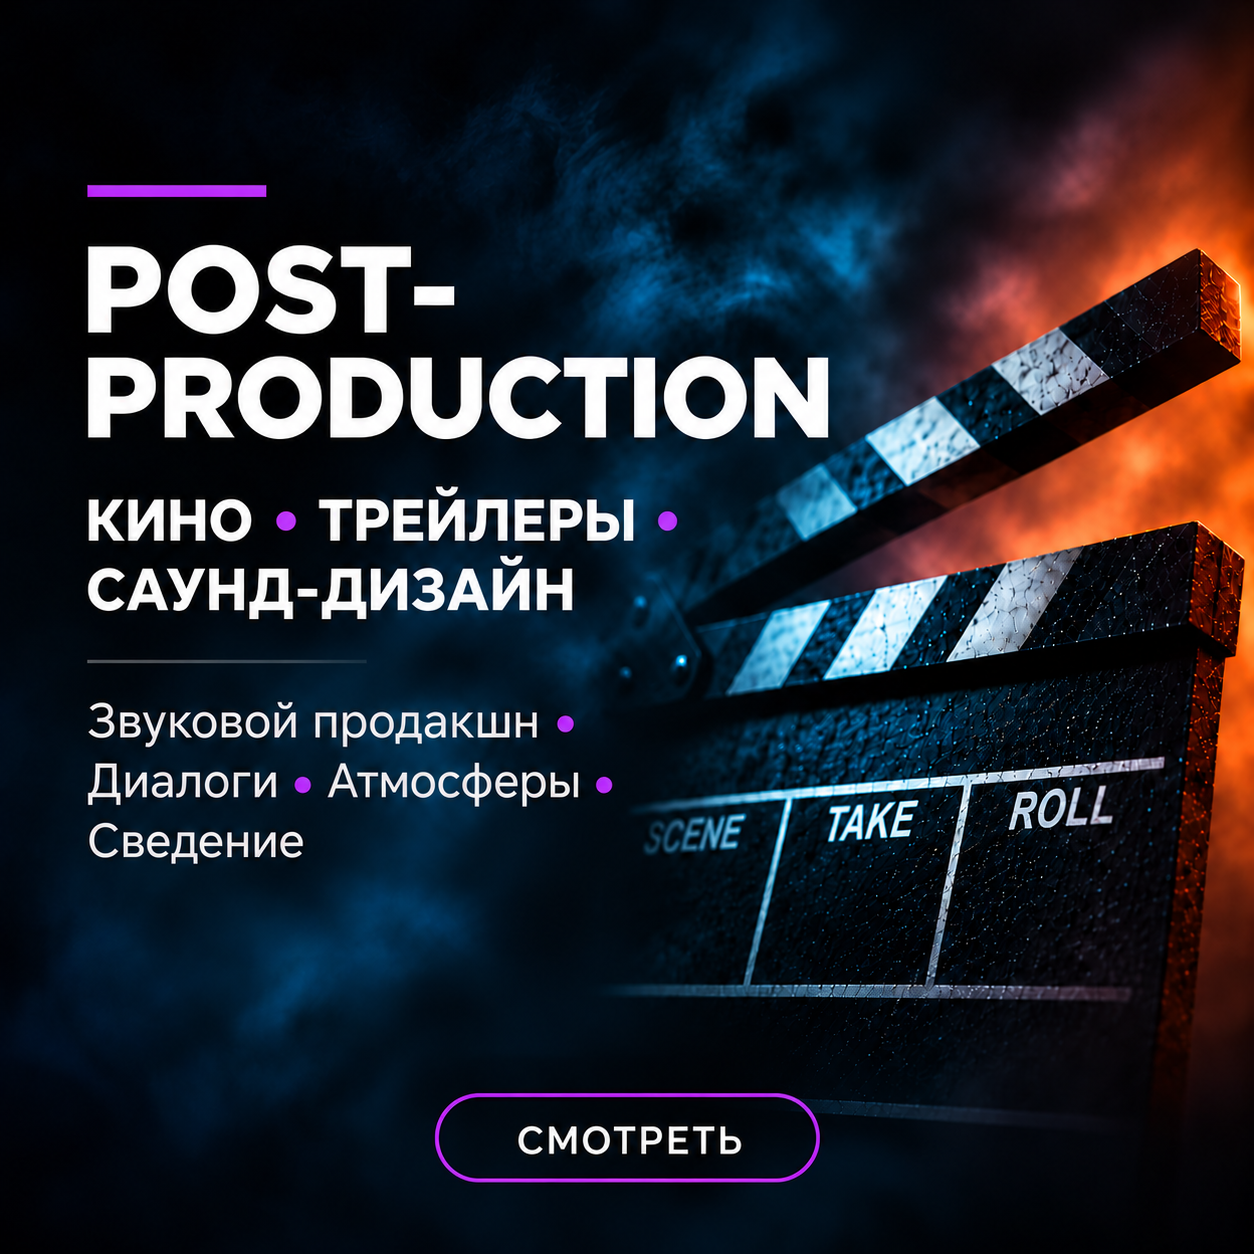
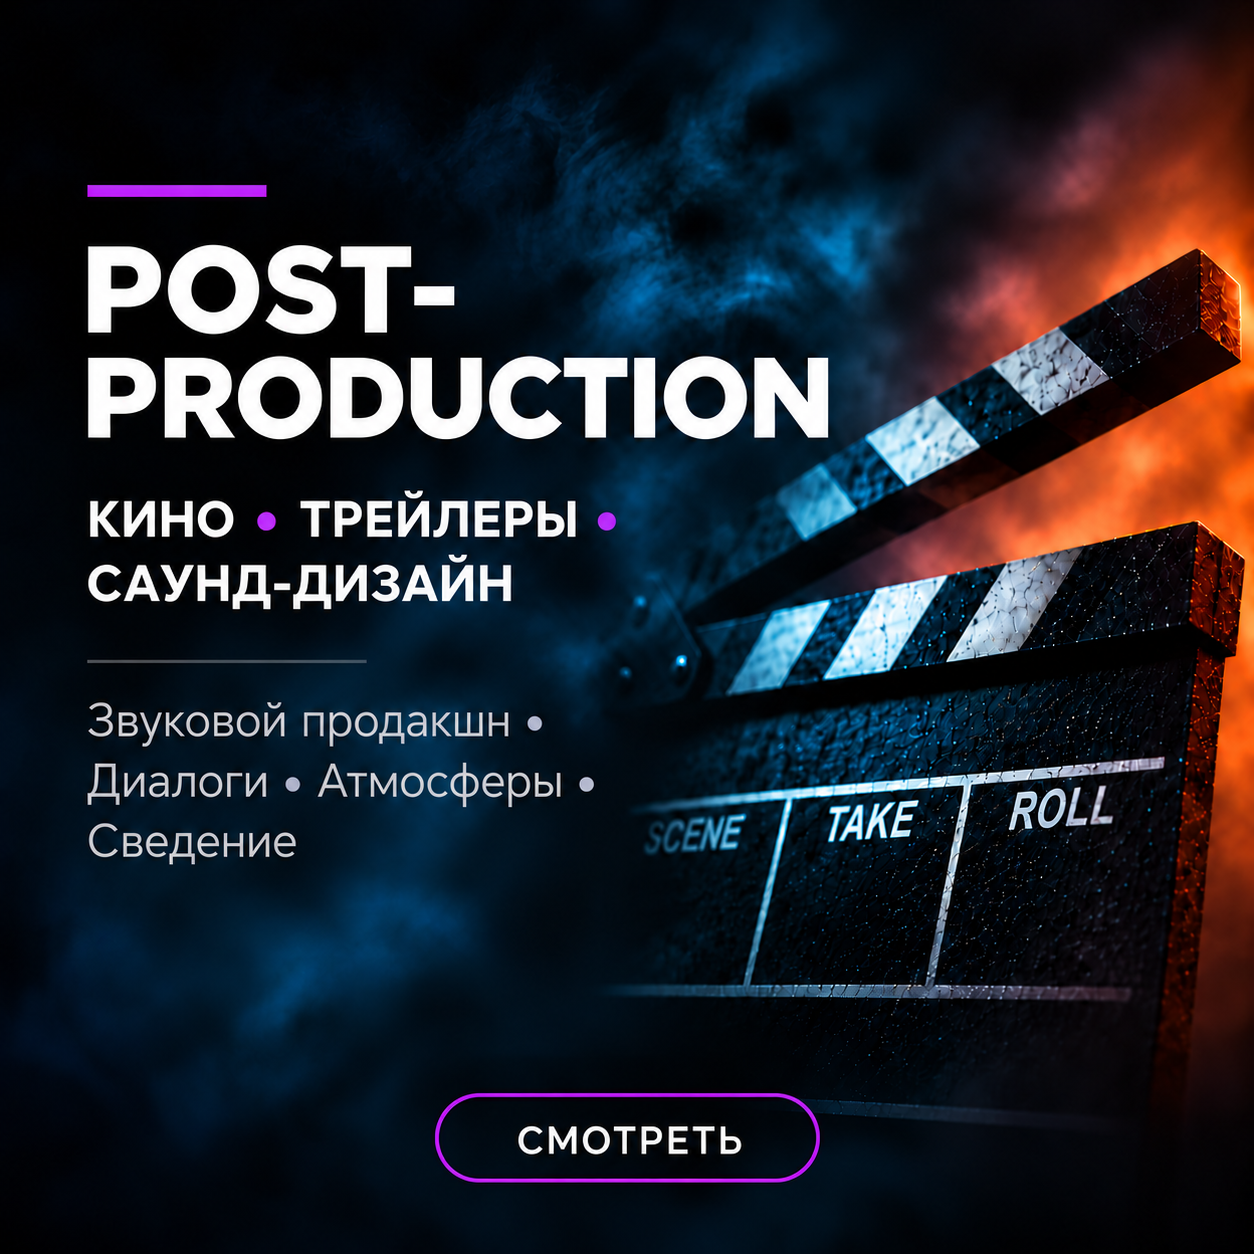
Lighten homepage cover typography

diff --git a/index.html b/index.html
@@ -11,7 +11,7 @@
 <body id="top"><main>
 <div class="desktop-navigation"><div class="brand"><span>ЗВУКОРЕЖИССЁР</span><h1>ДМИТРИЙ ЛЕПИЛКИН</h1></div><div class="header-specialties" role="group" aria-label="Направления работы"><span>ПОСТПРОДАКШЕН</span><span>СВЕДЕНИЕ</span><span>МАСТЕРИНГ</span></div></div>
 
-<div class="home-content"><section id="works" aria-label="Направления работ"><div class="desktop-work-heading"><a class="cta" href="#desktop-cards">МОИ РАБОТЫ <span aria-hidden="true">↓</span></a></div><div class="desktop-cards" id="desktop-cards"><a class="desktop-card" href="post-production.html" aria-label="Post-Production: Кино, Трейлеры, Саунд-дизайн"><picture><img src="post-production-cover.png?v=20261102-type3" alt="Post-Production. Кино · Трейлеры · Саунд-дизайн. Звуковой продакшн · Диалоги · Атмосферы · Сведение. Смотреть" width="1254" height="1254" fetchpriority="high"></picture></a><a class="desktop-card" href="music-player-test.html" aria-label="Music Mixing: музыкальные работы"><picture><img src="music-mixing-cover.png?v=20261102-type3" alt="Music Mixing. Поп · Поп-рок · Рок · Металл. Редакция · Вокальный продакшн · Сведение · Мастеринг. Смотреть" width="1254" height="1254"></picture></a></div></section><section id="about" class="about" aria-label="О Дмитрии Лепилкине"><div class="about-copy"><p>Окончил СПбГУП по специальности «Звукорежиссура».</p><p>Более 15 лет в звукорежиссуре, из них 12 лет — на телевидении.</p><p>Занимаюсь сведением и мастерингом музыки, звуковым постпродакшеном кино, трейлеров и рекламы.</p></div><div class="about-photo"><img src="about.png" alt="Дмитрий Лепилкин в студии" loading="lazy"></div></section><footer id="contacts" class="footer contact-footer"><span class="contact-label">СВЯЗАТЬСЯ СО МНОЙ</span><nav class="contact-links" aria-label="Связаться с Дмитрием"><a href="https://t.me/dmitry_sandalik" target="_blank" rel="noopener noreferrer" aria-label="Telegram: @dmitry_sandalik" title="Telegram"><img src="telegram-logo.png" alt="Telegram"></a><a href="https://vk.ru/lepilkin" target="_blank" rel="noopener noreferrer" aria-label="ВКонтакте" title="VK"><img src="vk-logo.png" alt="VK"></a><a href="https://max.ru/u/f9LHodD0cOIl2ZSZwa2K6gN7Z_w7_o9onIcd2tIZ8EqZnX-kVQxglE42egE" target="_blank" rel="noopener noreferrer" aria-label="MAX" title="MAX"><img src="max-logo.png" alt="MAX"></a></nav></footer></div>
+<div class="home-content"><section id="works" aria-label="Направления работ"><div class="desktop-work-heading"><a class="cta" href="#desktop-cards">МОИ РАБОТЫ <span aria-hidden="true">↓</span></a></div><div class="desktop-cards" id="desktop-cards"><a class="desktop-card" href="post-production.html" aria-label="Post-Production: Кино, Трейлеры, Саунд-дизайн"><picture><img src="post-production-cover.png?v=20261102-light" alt="Post-Production. Кино · Трейлеры · Саунд-дизайн. Звуковой продакшн · Диалоги · Атмосферы · Сведение. Смотреть" width="1254" height="1254" fetchpriority="high"></picture></a><a class="desktop-card" href="music-player-test.html" aria-label="Music Mixing: музыкальные работы"><picture><img src="music-mixing-cover.png?v=20261102-light" alt="Music Mixing. Поп · Поп-рок · Рок · Металл. Редакция · Вокальный продакшн · Сведение · Мастеринг. Смотреть" width="1254" height="1254"></picture></a></div></section><section id="about" class="about" aria-label="О Дмитрии Лепилкине"><div class="about-copy"><p>Окончил СПбГУП по специальности «Звукорежиссура».</p><p>Более 15 лет в звукорежиссуре, из них 12 лет — на телевидении.</p><p>Занимаюсь сведением и мастерингом музыки, звуковым постпродакшеном кино, трейлеров и рекламы.</p></div><div class="about-photo"><img src="about.png" alt="Дмитрий Лепилкин в студии" loading="lazy"></div></section><footer id="contacts" class="footer contact-footer"><span class="contact-label">СВЯЗАТЬСЯ СО МНОЙ</span><nav class="contact-links" aria-label="Связаться с Дмитрием"><a href="https://t.me/dmitry_sandalik" target="_blank" rel="noopener noreferrer" aria-label="Telegram: @dmitry_sandalik" title="Telegram"><img src="telegram-logo.png" alt="Telegram"></a><a href="https://vk.ru/lepilkin" target="_blank" rel="noopener noreferrer" aria-label="ВКонтакте" title="VK"><img src="vk-logo.png" alt="VK"></a><a href="https://max.ru/u/f9LHodD0cOIl2ZSZwa2K6gN7Z_w7_o9onIcd2tIZ8EqZnX-kVQxglE42egE" target="_blank" rel="noopener noreferrer" aria-label="MAX" title="MAX"><img src="max-logo.png" alt="MAX"></a></nav></footer></div>
 </main></body></html>
 
 <style>.number,.arrow{display:none}</style>
